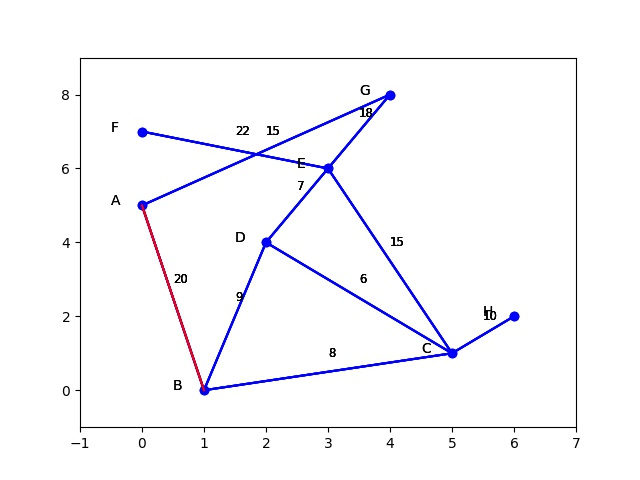
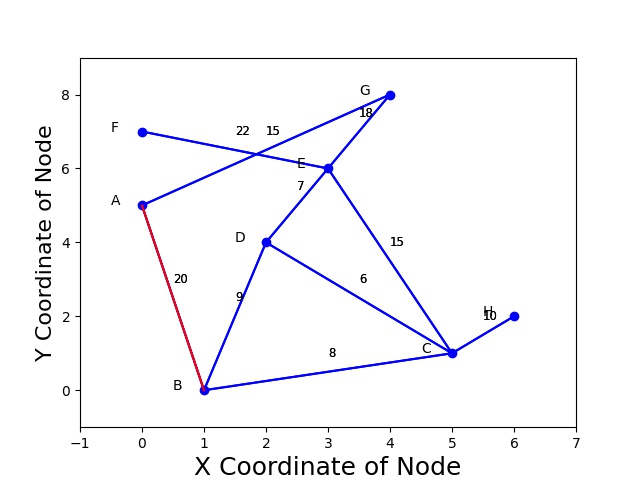
Added X and Y labels

diff --git a/shortestflaskplotter/shortest_path.py b/shortestflaskplotter/shortest_path.py
@@ -54,6 +54,8 @@ class QuickWayFinder(object):
         yCoord = [int(self.node_coordinates[k][1]) for k in sorted(self.node_coordinates)]
         plt.plot(xCoord, yCoord, 'bo')
         plt.axis([-1, 7, -1, 9])
+        plt.xlabel('X Coordinate of Node', fontsize=18)
+        plt.ylabel('Y Coordinate of Node', fontsize=16)
         for i in range(len(self.node_names)):
             plt.text(xCoord[i] - 0.5, yCoord[i], self.node_names[str(i + 1)])
         for i in range(len(self.node_names)):
